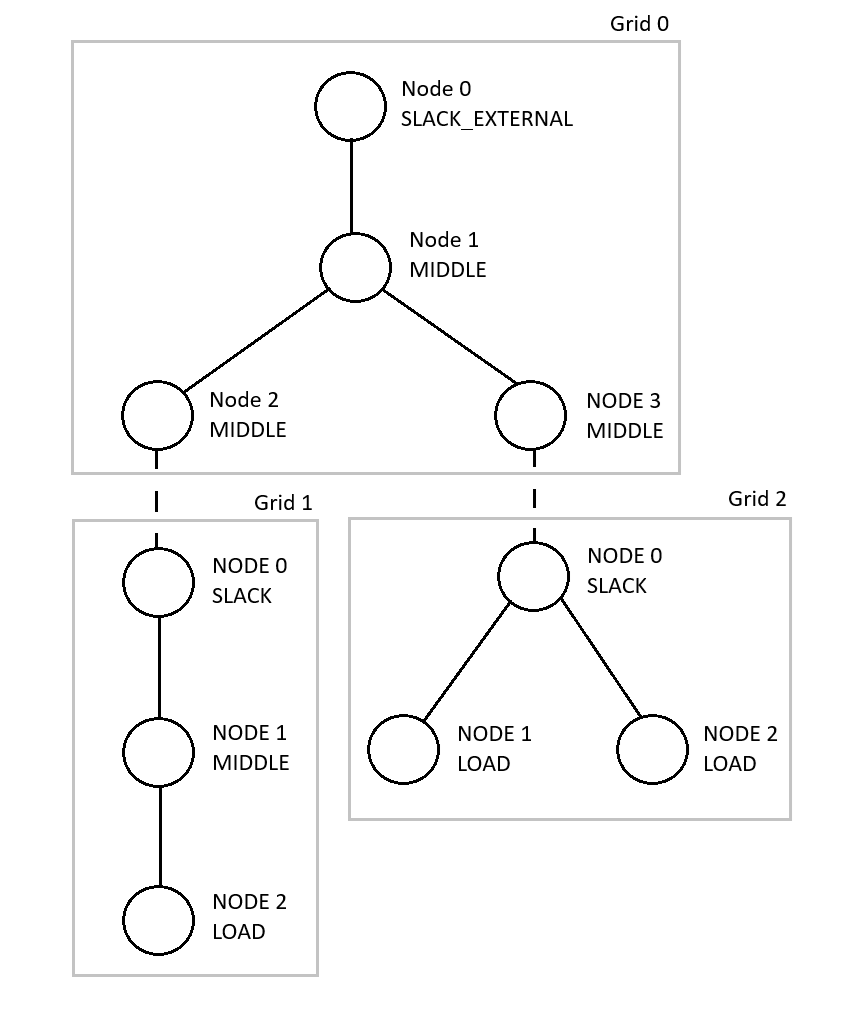
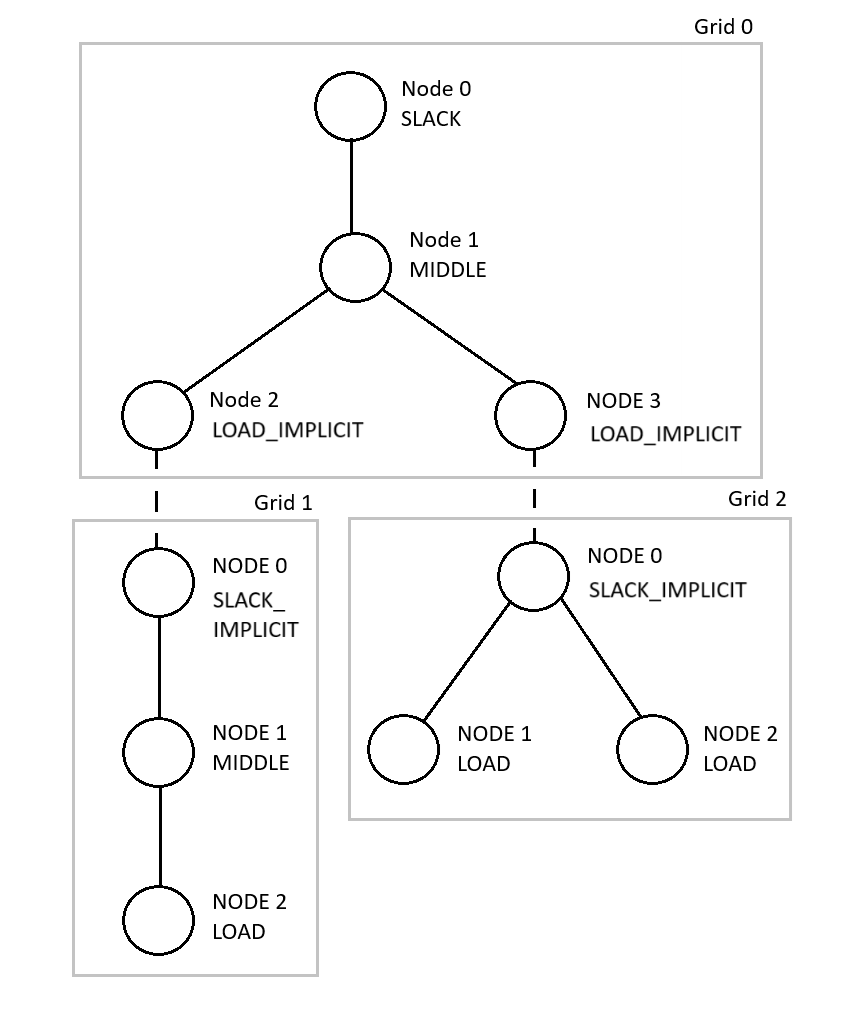
Add LOAD_IMPLICIT node and rename SLACK/SLACK_EXTERNAL to SLACK_IMPLICIT/SLACK

diff --git a/src/NetworkValidator.cpp b/src/NetworkValidator.cpp
@@ -53,11 +53,11 @@ void NetworkValidator::validateConnections(const Network& network)
                 std::to_string(conn.pqGrid) + " in connection " +
                 std::to_string(connIdx));
         }
-        if (network.grids.at(conn.slackGrid).nodes.at(conn.slackNode).type != MIDDLE)
+        if (network.grids.at(conn.slackGrid).nodes.at(conn.slackNode).type != LOAD_IMPLICIT)
         {
             throw std::invalid_argument("Invalid node type in connection " + std::to_string(connIdx));
         }
-        if (network.grids.at(conn.pqGrid).nodes.at(conn.pqNode).type != SLACK)
+        if (network.grids.at(conn.pqGrid).nodes.at(conn.pqNode).type != SLACK_IMPLICIT)
         {
             throw std::invalid_argument("Invalid node type in connection " + std::to_string(connIdx));
         }
@@ -89,7 +89,8 @@ void NetworkValidator::validateConnections(const Network& network)
 
 bool NetworkValidator::networkIsDisjoint(const Network& network)
 {
-    // Verify that every SLACK node has one and only one associated connection.
+    // Verify that every SLACK_IMPLICIT/LOAD_IMPLICIT node has one and only one
+    // associated connection.
     for (grid_idx_t gridIdx = 0; gridIdx < network.grids.size(); ++gridIdx)
     {
         const Grid& grid = network.grids.at(gridIdx);
@@ -98,13 +99,16 @@ bool NetworkValidator::networkIsDisjoint(const Network& network)
         {
             const GridNode& node = grid.nodes.at(nodeIdx);
 
-            if (node.type == SLACK)
+            if (node.type == SLACK_IMPLICIT || node.type == LOAD_IMPLICIT)
             {
-                int conns = 0; // Number of connections to this SLACK node
+                int conns = 0; // Number of connections to this node
 
                 for (const GridConnection& conn : network.connections)
                 {
-                    if (conn.pqGrid == gridIdx && conn.pqNode == nodeIdx)
+                    if ((node.type == SLACK_IMPLICIT && conn.pqGrid == gridIdx &&
+                            conn.pqNode == nodeIdx) ||
+                        (node.type == LOAD_IMPLICIT && conn.slackGrid == gridIdx &&
+                            conn.slackNode == nodeIdx))
                     {
                         ++conns;
                     }

diff --git a/src/solvers/ZBusJacobiSolver.cpp b/src/solvers/ZBusJacobiSolver.cpp
@@ -27,7 +27,7 @@ ZBusJacobiSolver::ZBusJacobiSolver(Grid* grid, Logger* const logger, int maxIter
 	{
 		GridNode& node = grid->nodes.at(nodeIdx);
 		
-		if (node.type == NodeType::SLACK || node.type == NodeType::SLACK_EXTERNAL)
+		if (node.type == NodeType::SLACK_IMPLICIT || node.type == NodeType::SLACK)
 		{
 			if (slackNodeIdx != -1)
 			{
@@ -52,7 +52,7 @@ ZBusJacobiSolver::ZBusJacobiSolver(Grid* grid, Logger* const logger, int maxIter
 
 	if (slackNodeIdx == -1)
 	{
-		throw std::runtime_error("ZBusJacobiSolver: Could not find SLACK/SLACK_EXTERNAL node");
+		throw std::runtime_error("ZBusJacobiSolver: Could not find SLACK_IMPLICIT/SLACK node");
 	}
 
 	Z = ybus.inverse();
@@ -77,7 +77,7 @@ int ZBusJacobiSolver::solve()
 	// Transfer node voltages and powers to V and S vectors.
 	for (node_idx_t nodeIdx = 0; nodeIdx < N; ++nodeIdx)
 	{
-		if (grid->nodes[nodeIdx].type == SLACK || grid->nodes[nodeIdx].type == SLACK_EXTERNAL)
+		if (grid->nodes[nodeIdx].type == SLACK_IMPLICIT || grid->nodes[nodeIdx].type == SLACK)
 		{
 			// Slack node power is set to V*conj(V) in ZBus Jacobi.
 			S(nodeIdx) = grid->nodes[nodeIdx].v * std::conj(grid->nodes[nodeIdx].v);

diff --git a/src/GridAnalyzer.cpp b/src/GridAnalyzer.cpp
@@ -53,8 +53,9 @@ bool GridAnalyzer::isSuitableForBFS(Grid const& grid)
         // add neighbors to stack
         GridNode current_grid_node = grid.nodes[current_node];
 
-        // Verify that LOAD nodes are leaf nodes.
-        if (current_grid_node.type == NodeType::LOAD &&
+        // Verify that LOAD/LOAD_IMPLICIT nodes are leaf nodes.
+        if ((current_grid_node.type == NodeType::LOAD ||
+            current_grid_node.type == NodeType::LOAD_IMPLICIT) &&
             current_grid_node.edges.size() != 1)
         {
             return false;
@@ -109,7 +110,7 @@ bool GridAnalyzer::hasSingleSlackNode(Grid const& grid)
 
     for (const GridNode& node : grid.nodes)
     {
-        if (node.type == SLACK || node.type == SLACK_EXTERNAL)
+        if (node.type == SLACK_IMPLICIT || node.type == SLACK)
         {
             slackNodes++;
         }

diff --git a/src/NetworkLoader.cpp b/src/NetworkLoader.cpp
@@ -118,17 +118,21 @@ Grid NetworkLoader::loadGrid()
         {
             throw NetworkLoaderError("Missing or invalid node type", curLine);
         }
-        if (type == "s")
+        if (type == "si")
         {
-            grid.nodes.at(nodeIdx).type = NodeType::SLACK;
+            grid.nodes.at(nodeIdx).type = NodeType::SLACK_IMPLICIT;
         }
         else if (type == "l")
         {
             grid.nodes.at(nodeIdx).type = NodeType::LOAD;
         }
-        else if (type == "e")
+        else if (type == "s")
         {
-            grid.nodes.at(nodeIdx).type = NodeType::SLACK_EXTERNAL;
+            grid.nodes.at(nodeIdx).type = NodeType::SLACK;
+        }
+        else if (type == "li")
+        {
+            grid.nodes.at(nodeIdx).type = NodeType::LOAD_IMPLICIT;
         }
         else
         {

diff --git a/src/solvers/BackwardForwardSweepSolver.cpp b/src/solvers/BackwardForwardSweepSolver.cpp
@@ -8,7 +8,7 @@ BackwardForwardSweepSolver::BackwardForwardSweepSolver(Grid* grid,
     rootIdx = -1;
     for (node_idx_t i = 0; i < grid->nodes.size(); ++i)
     {
-        if (grid->nodes[i].type == NodeType::SLACK || grid->nodes[i].type == NodeType::SLACK_EXTERNAL)
+        if (grid->nodes[i].type == NodeType::SLACK_IMPLICIT || grid->nodes[i].type == NodeType::SLACK)
         {
             rootIdx = i;
             break;
@@ -98,7 +98,7 @@ bool BackwardForwardSweepSolver::hasConverged()
     {
         GridNode& node = grid->nodes[nodeIdx];
 
-        if (node.type == NodeType::SLACK || node.type == NodeType::SLACK_EXTERNAL)
+        if (node.type == NodeType::SLACK_IMPLICIT || node.type == NodeType::SLACK)
             continue;
 
         complex_t yv = 0.0;

diff --git a/src/solvers/GaussSeidelSolver.cpp b/src/solvers/GaussSeidelSolver.cpp
@@ -43,7 +43,7 @@ int GaussSeidelSolver::solve()
         {
             GridNode& node = grid->nodes[nodeIdx];
 
-            if (node.type == NodeType::SLACK || node.type == NodeType::SLACK_EXTERNAL)
+            if (node.type == NodeType::SLACK_IMPLICIT || node.type == NodeType::SLACK)
                 continue; // Slack node voltage is already known
 
             complex_t yv = 0;
@@ -76,7 +76,7 @@ int GaussSeidelSolver::solve()
     {
         GridNode& node = grid->nodes[nodeIdx];
 
-        if (node.type != NodeType::SLACK && node.type != NodeType::SLACK_EXTERNAL)
+        if (node.type != NodeType::SLACK_IMPLICIT && node.type != NodeType::SLACK)
             continue;
 
         complex_t yv = 0;

diff --git a/src/PowerFlowSolver.cpp b/src/PowerFlowSolver.cpp
@@ -128,7 +128,7 @@ void PowerFlowSolver::updateExternalVoltages(const std::vector<complex_t>& V)
     {
         for (GridNode& node : grid.nodes)
         {
-            if (node.type == NodeType::SLACK_EXTERNAL)
+            if (node.type == NodeType::SLACK)
             {
                 if (vIdx == V.size())
                 {
@@ -234,7 +234,7 @@ std::vector<complex_t> PowerFlowSolver::getSlackPowers() const
     {
         for (GridNode const &n : g.nodes)
         {
-            if (n.type == NodeType::SLACK || n.type == NodeType::SLACK_EXTERNAL)
+            if (n.type == NodeType::SLACK_IMPLICIT || n.type == NodeType::SLACK)
             {
                 result.push_back(n.s);
             }

diff --git a/include/powerflow/GridAnalyzer.hpp b/include/powerflow/GridAnalyzer.hpp
@@ -14,13 +14,13 @@ private:
     // Checks if the grid is suitable for Backward-Forward-Sweep:
     // - The grid must contain no cycles.
     // - The LOAD nodes must be leaf nodes.
-    // - The grid must contain exactly one SLACK/SLACK_EXTERNAL node.
+    // - The grid must contain exactly one SLACK_IMPLICIT/SLACK node.
     bool isSuitableForBFS(Grid const& grid);
 
     // Checks if the grid has an edge with impedance set to 0.
     bool hasZeroImpedance(Grid const& grid);
 
-    // Checks if the grid has only one SLACK/SLACK_EXTERNAL node.
+    // Checks if the grid has only one SLACK_IMPLICIT/SLACK node.
     bool hasSingleSlackNode(Grid const& grid);
 };
 

diff --git a/include/powerflow/PowerFlowSolver.hpp b/include/powerflow/PowerFlowSolver.hpp
@@ -41,7 +41,7 @@ public:
     // Returns all currents in the network.
     std::vector<complex_t> getCurrents() const;
 
-    // Returns all SLACK/SLACK_EXTERNAL powers in the network.
+    // Returns all SLACK_IMPLICIT/SLACK powers in the network.
     std::vector<complex_t> getSlackPowers() const;
 
     // Resets powers to 0 and voltages to 1.
@@ -59,7 +59,7 @@ private:
 	// Updates LOAD node powers.
 	void updateLoads(const std::vector<complex_t>& P);
 
-	// Updates SLACK_EXTERNAL node voltages.
+	// Updates SLACK node voltages.
 	void updateExternalVoltages(const std::vector<complex_t>& V);
 
 	// Runs the GridSolvers and combines the result.

diff --git a/python/PowerFlowPython.cpp b/python/PowerFlowPython.cpp
@@ -85,6 +85,6 @@ PYBIND11_MODULE(PowerFlowPython, m)
         .def("getLoadVoltages", &PowerFlow::getLoadVoltages, "Get the LOAD node voltages")
         .def("getAllVoltages", &PowerFlow::getAllVoltages, "Get all node voltages")
         .def("getCurrents", &PowerFlow::getCurrents, "Get currents")
-        .def("getSlackPowers", &PowerFlow::getSlackPowers, "Get SLACK/SLACK_EXTERNAL powers")
+        .def("getSlackPowers", &PowerFlow::getSlackPowers, "Get SLACK_IMPLICIT/SLACK powers")
         .def("reset", &PowerFlow::reset, "Reset network powers and voltages");
 }

diff --git a/include/powerflow/network.hpp b/include/powerflow/network.hpp
@@ -23,10 +23,11 @@ struct GridEdge
 // Possible node types.
 enum NodeType
 {
-    SLACK_EXTERNAL,
-    SLACK,
+    LOAD,
+    LOAD_IMPLICIT,
     MIDDLE,
-    LOAD
+    SLACK,
+    SLACK_IMPLICIT
 };
 
 // Graph node struct.

diff --git a/README.md b/README.md
@@ -86,17 +86,18 @@ Each edge in the graph has an associated impedance (Z) and each node has an asso
 
 #### Node types
 
-A grid node is of one of the following types: LOAD, MIDDLE, SLACK_EXTERNAL or SLACK.
+A grid node is of one of the following types: LOAD, LOAD_IMPLICIT, MIDDLE, SLACK, SLACK_IMPLICIT.
 
 - LOAD nodes are nodes where the power consumption is known and the voltage is unknown.
+- LOAD_IMPLICIT nodes are similar to LOAD nodes, but the power is instead specified by a connection to another grid.
 - MIDDLE nodes are nodes that are only used for branching and connections.
-- SLACK_EXTERNAL nodes are nodes where the voltage is known and the power is unknown.
-- SLACK nodes are similar to SLACK_EXTERNAL nodes, but the voltage is instead specified by a connection to another grid.
+- SLACK nodes are nodes where the voltage is known and the power is unknown.
+- SLACK_IMPLICIT nodes are similar to SLACK nodes, but the voltage is instead specified by a connection to another grid.
 
 Note that:
 
-- Each grid in a network must have a voltage reference. Therefore, at least one SLACK_EXTERNAL or SLACK node must exist in each grid.
-- When connecting two grids, one of the nodes has to be a SLACK node and the other node has to be a MIDDLE node.
+- Each grid in a network must have a voltage reference. Therefore, at least one SLACK or SLACK_IMPLICIT node must exist in each grid.
+- When connecting two grids, one of the nodes has to be a SLACK_IMPLICIT node and the other node has to be a LOAD_IMPLICIT node.
 
 #### Per-unit
 
@@ -117,7 +118,7 @@ When a network is loaded, all voltages are initially set to (1, 0). Further calc
 
 #### Solvers
 
-PowerFlow implements three different algorithms (solvers): For grids that have a single SLACK/SLACK_EXTERNAL node, contain no cycles and where the LOAD nodes are located at the "leaves", a *Backward-Forward-Sweep* (BFS) algorithm is used. For other grids, the *ZBus Jacobi* or *Gauss-Seidel* algorithm is used. *ZBus Jacobi* can only be used when a grid contains a single SLACK/SLACK_EXTERNAL node and when the grid doesn't contain too many nodes. PowerFlow automatically detects which solver is most suitable for each grid.
+PowerFlow implements three different algorithms (solvers): For grids that have a single SLACK/SLACK_IMPLICIT node, contain no cycles and where the LOAD/LOAD_IMPLICIT nodes are located at the "leaves", a *Backward-Forward-Sweep* (BFS) algorithm is used. For other grids, the *ZBus Jacobi* or *Gauss-Seidel* algorithm is used. *ZBus Jacobi* can only be used when a grid contains a single SLACK/SLACK_IMPLICIT node and when the grid doesn't contain too many nodes. PowerFlow automatically detects which solver is most suitable for each grid.
 
 #### Limitations
 
@@ -125,9 +126,9 @@ Some limitations on the structure of a network are imposed by PowerFlow:
 
 - It is not possible to have more than one edge between the same pair of nodes.
 - It is not possible to have disjointed grids.
-- Each grid must have at least one SLACK/SLACK_EXTERNAL node. Note that some solvers only accept a single SLACK/SLACK_EXTERNAL node.
-- The same SLACK/MIDDLE node can only be used in one connection.
-- When the Backward-Forward-Sweep algorithm is used (i.e., when the grid is a tree), it is possible to specify cables with 0 impedance. This can be used to "simulate" LOAD nodes that are not leaves by creating a LOAD node that connects to a MIDDLE node using an edge with 0 impedance. The other solvers do not allow cables with 0 impedance!
+- Each grid must have at least one SLACK/SLACK_IMPLICIT node. Note that some solvers only accept a single SLACK/SLACK_IMPLICIT node.
+- The same SLACK_IMPLICIT/LOAD_IMPLICIT nodes can only be used in one connection.
+- Impedances cannot be 0.
 
 ### Network files
 
@@ -151,10 +152,13 @@ grid
 %
 
 # Node types on the format: <node> <type>.
-# <type> can be either e (SLACK_EXTERNAL), s (SLACK) or l (LOAD).
+# <type> can be either s (SLACK), si (SLACK_IMPLICIT), l (LOAD)
+# or li (LOAD_IMPLICIT).
 # Nodes not listed here will automatically become MIDDLE nodes.
 # The % sign marks end of list. 
 0 s
+2 li
+3 li
 %
 
 # Grid 1.
@@ -163,7 +167,7 @@ grid
 0 1 (0.02, 0.02)
 1 2 (0.05, 0.03)
 %
-0 s
+0 si
 2 l
 %
 
@@ -173,7 +177,7 @@ grid
 0 1 (0.02, 0.03)
 0 2 (0.03, 0.03)
 %
-0 s
+0 si
 1 l
 2 l
 %
@@ -208,7 +212,7 @@ net.solve(S, V);
 
 `net.solve` performs the power flow calculation. S, V and V_res are **complex** row vectors. The S vector must contain one complex value per LOAD node in the network.
 
-In a network with *n* grids, each containing *m_1* to *m_n* number of LOAD nodes, the first *m_1* values in the S vector correspond to the load nodes in the first grid, the second *m_2* values correspond to the load nodes in the second grid and so on. The LOAD nodes are in turn ordered by their ID, i.e., a LOAD node with ID 0 comes before LOAD node with ID 3 in the S vector. In the same way, V must contain one complex value per SLACK_EXTERNAL node in the network.
+In a network with *n* grids, each containing *m_1* to *m_n* number of LOAD nodes, the first *m_1* values in the S vector correspond to the load nodes in the first grid, the second *m_2* values correspond to the load nodes in the second grid and so on. The LOAD nodes are in turn ordered by their ID, i.e., a LOAD node with ID 0 comes before LOAD node with ID 3 in the S vector. In the same way, V must contain one complex value per SLACK node in the network.
 
 #### Get LOAD node voltages
 
@@ -232,7 +236,7 @@ I = net.getCurrents();
 
 The elements in the I vector are the currents in the edges in the same order they appear in the Network file. In a network with *n* grids, each containing *m_1* to *m_n* number of edges, the first *m_1* values in the I vector correspond to the edges in the first grid, the second *m_2* values correspond to the edges in the second grid and so on.
 
-#### Get SLACK/SLACK_EXTERNAL node voltages
+#### Get SLACK/SLACK_IMPLICIT node voltages
 
 ```
 S_slack = net.getSlackPowers();
